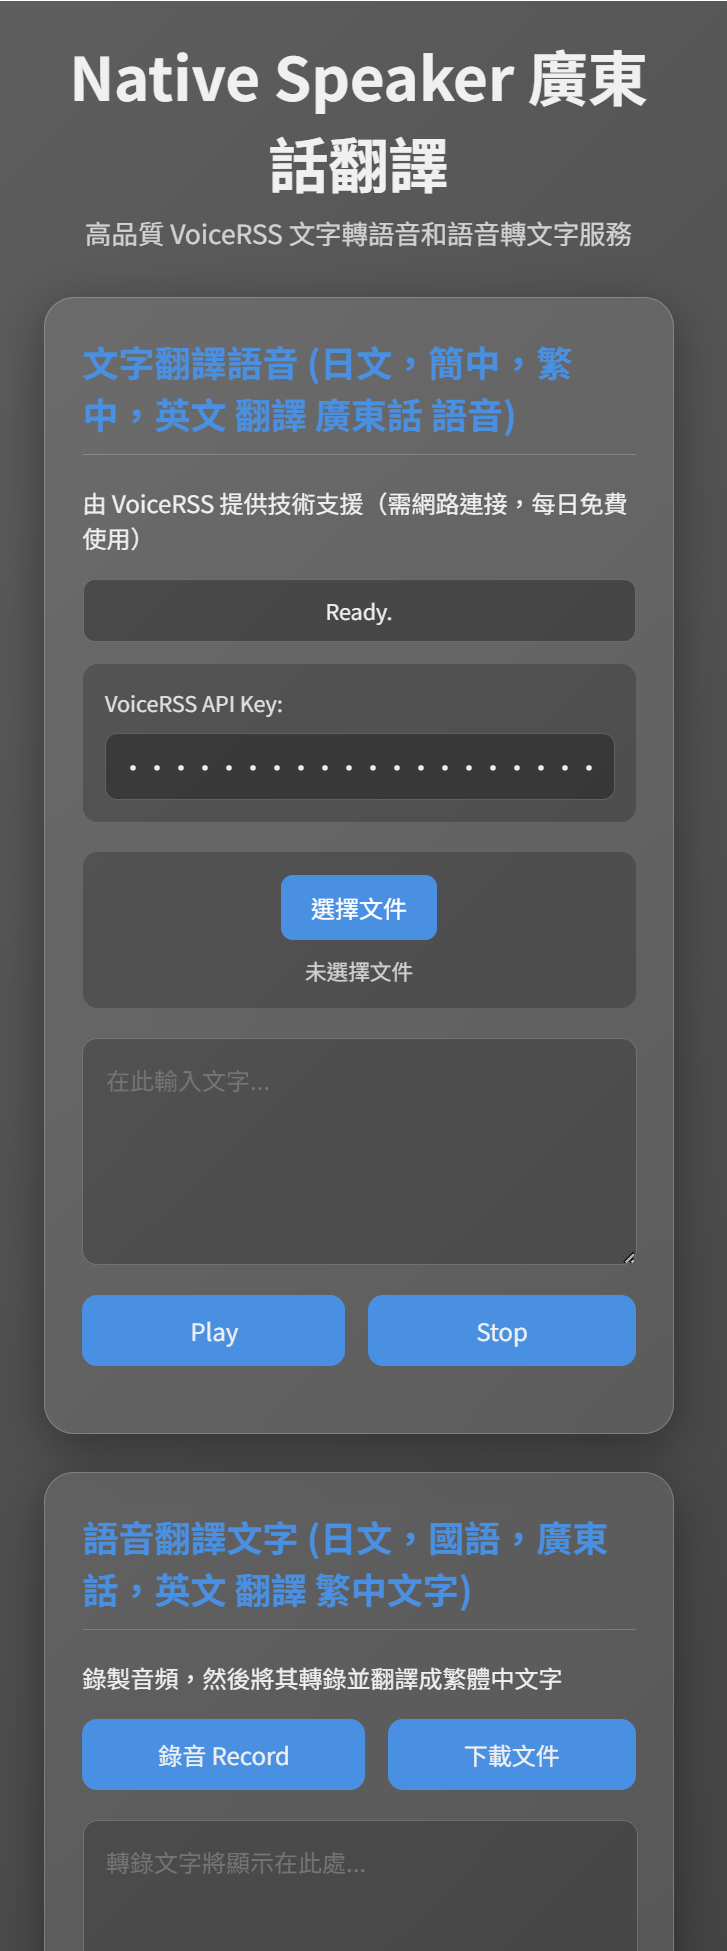
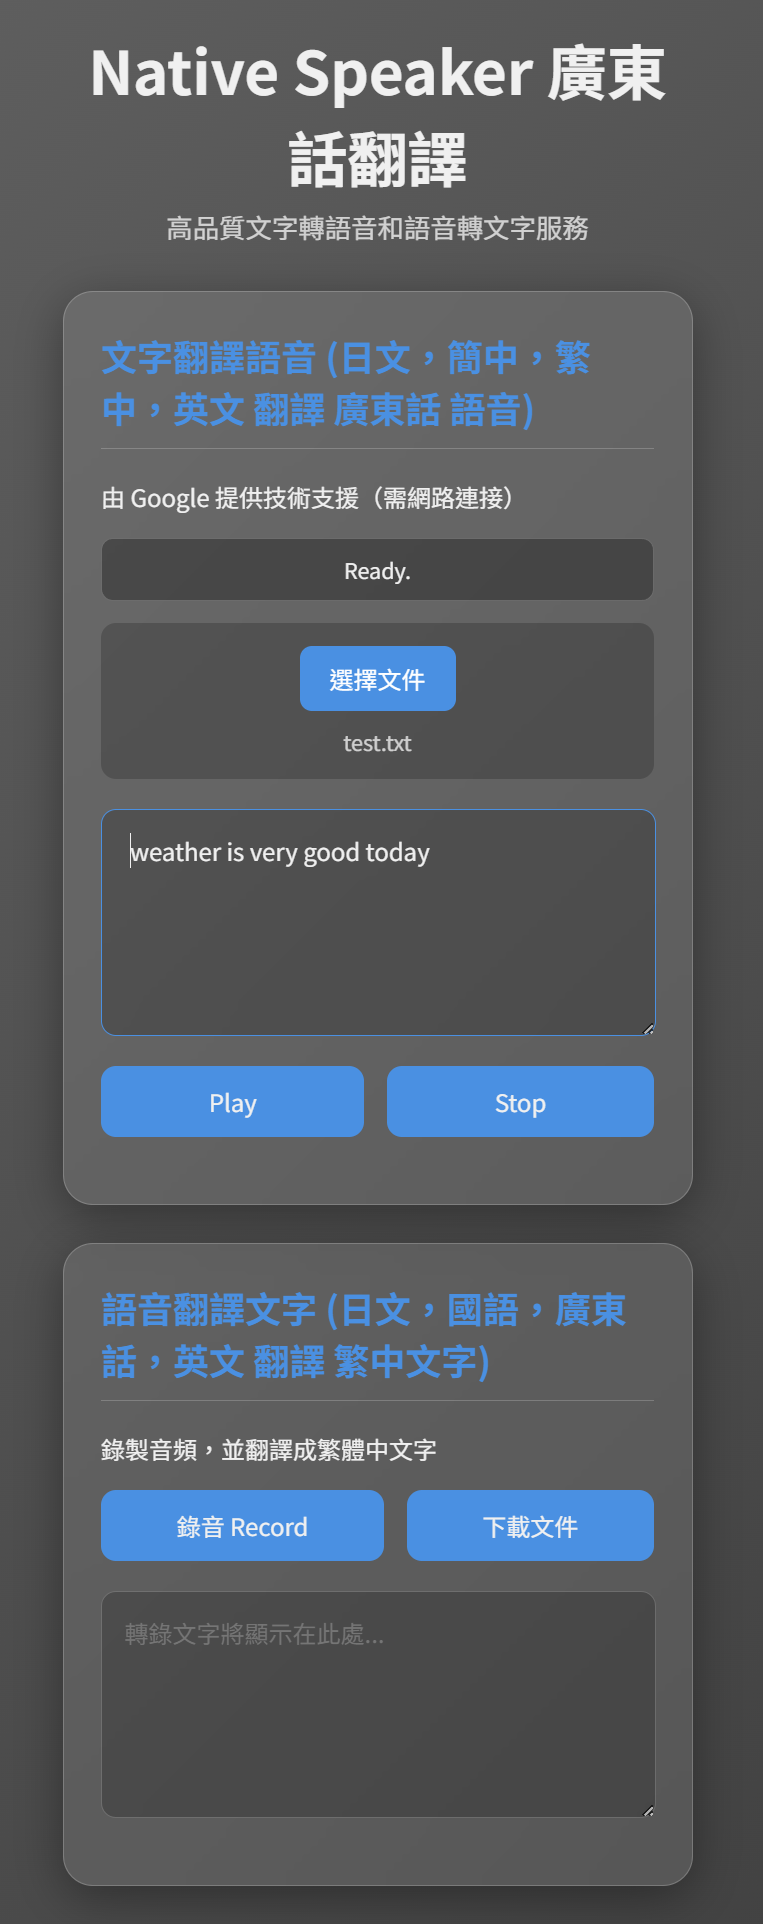
Add files via upload

diff --git a/script.js b/script.js
@@ -7,7 +7,7 @@ document.addEventListener('DOMContentLoaded', async () => {
     const stopBtn = document.getElementById('stop-btn');
     const ttsStatus = document.getElementById('tts-status');
 
-    const voicerssKeyInput = document.getElementById('voicerss-key');
+    // Removed: voicerssKeyInput
 
     const recordBtn = document.getElementById('record-btn');
     const downloadBtn = document.getElementById('download-btn');
@@ -15,23 +15,16 @@ document.addEventListener('DOMContentLoaded', async () => {
     const sttStatus = document.getElementById('stt-status');
 
     // --- Global State ---
-    let currentAudio = null; // To keep track of current playing audio
+    let currentUtterance = null; // To keep track of current playing audio
 
     // --- Feature Detection for STT (Browser's Web Speech API) ---
     const SpeechRecognition = window.SpeechRecognition || window.webkitSpeechRecognition;
     const recognition = SpeechRecognition ? new SpeechRecognition() : null;
     let isRecording = false;
 
-    // --- TTS (VoiceRSS) Implementation ---
+    // --- TTS (Browser's SpeechSynthesis) Implementation ---
 
     async function speak(text) {
-        const voicerssKey = voicerssKeyInput.value.trim();
-
-        if (!voicerssKey) {
-            ttsStatus.textContent = 'Please enter your VoiceRSS API Key.';
-            return;
-        }
-
         if (text.trim() === '') {
             ttsStatus.textContent = 'Please enter some text to speak.';
             return;
@@ -45,46 +38,58 @@ document.addEventListener('DOMContentLoaded', async () => {
             const translatedText = await translateText(text, 'zh-HK');
             ttsStatus.textContent = 'Generating audio...';
 
-            const url = `https://api.voicerss.org/?key=${voicerssKey}&src=${encodeURIComponent(translatedText)}&hl=zh-hk&v=Lina&r=0&c=MP3&f=44khz_16bit_stereo`;
-            
-            // VoiceRSS returns an audio file directly or an error message as plain text
-            const response = await fetch(url);
+            if ('speechSynthesis' in window) {
+                const utterance = new SpeechSynthesisUtterance(translatedText);
+                utterance.lang = 'zh-HK'; // Attempt to use Cantonese
 
-            if (!response.ok) {
-                const errorText = await response.text();
-                throw new Error(`VoiceRSS Error: ${response.status} - ${errorText}`);
-            }
+                // Optional: Try to find a suitable Cantonese voice
+                const voices = window.speechSynthesis.getVoices();
+                const cantoneseVoice = voices.find(voice => voice.lang === 'zh-HK' || voice.lang === 'yue-HK' || voice.name.includes('Cantonese'));
+                if (cantoneseVoice) {
+                    utterance.voice = cantoneseVoice;
+                } else {
+                    console.warn('No specific Cantonese voice found, using default for zh-HK or first available.');
+                }
 
-            // Play the audio
-            if (currentAudio) {
-                currentAudio.pause();
-                currentAudio = null;
-            }
-            currentAudio = new Audio(URL.createObjectURL(await response.blob()));
-            currentAudio.play();
+                if (window.speechSynthesis.speaking) {
+                    window.speechSynthesis.cancel();
+                }
+                currentUtterance = utterance;
+                window.speechSynthesis.speak(utterance);
 
-            ttsStatus.textContent = 'Speaking...';
-            currentAudio.onended = () => {
-                ttsStatus.textContent = 'Ready.';
+                ttsStatus.textContent = 'Speaking...';
+                utterance.onend = () => {
+                    ttsStatus.textContent = 'Ready.';
+                    playBtn.disabled = false;
+                    currentUtterance = null;
+                };
+                utterance.onerror = (event) => {
+                    ttsStatus.textContent = `Error playing audio: ${event.error}.`;
+                    console.error('SpeechSynthesis error:', event);
+                    playBtn.disabled = false;
+                    currentUtterance = null;
+                };
+            } else {
+                ttsStatus.textContent = 'SpeechSynthesis not supported in this browser.';
+                console.error('SpeechSynthesis not supported.');
                 playBtn.disabled = false;
-            };
-            currentAudio.onerror = (e) => {
-                ttsStatus.textContent = `Error playing audio.`;
-                console.error('Audio playback error:', e);
-                playBtn.disabled = false;
-            };
+            }
 
         } catch (error) {
             ttsStatus.textContent = `Error: ${error.message}`;
-            console.error('VoiceRSS TTS Error:', error);
+            console.error('TTS Error:', error);
             playBtn.disabled = false;
         }
     }
 
     stopBtn.addEventListener('click', () => {
-        if (currentAudio) {
-            currentAudio.pause();
-            currentAudio = null;
+        if ('speechSynthesis' in window && window.speechSynthesis.speaking) {
+            window.speechSynthesis.cancel(); // Stop all speech
+            if (currentUtterance) {
+                currentUtterance.onend = null; // Prevent onend from firing after cancel
+                currentUtterance.onerror = null;
+                currentUtterance = null;
+            }
             ttsStatus.textContent = 'Ready.';
             playBtn.disabled = false;
         }

diff --git a/index.html b/index.html
@@ -3,7 +3,7 @@
 <head>
     <meta charset="UTF-8">
     <meta name="viewport" content="width=device-width, initial-scale=1.0">
-    <title>Native Speaker (VoiceRSS TTS)</title>
+    <title>Native Speaker (Google TTS)</title>
     <link rel="stylesheet" href="style.css">
 </head>
 <body>
@@ -11,18 +11,13 @@
         <div class="main-content">
             <header>
                 <h1>Native Speaker 廣東話翻譯</h1>
-                <p>高品質 VoiceRSS 文字轉語音和語音轉文字服務</p>
+                <p>高品質文字轉語音和語音轉文字服務</p>
             </header>
 
             <div class="feature-box" id="tts-section">
                 <h2>文字翻譯語音 (日文，簡中，繁中，英文 翻譯 廣東話 語音)</h2>
-                <p>由 VoiceRSS 提供技術支援（需網路連接，每日免費使用）</p>
+                <p>由 Google 提供技術支援（需網路連接）</p>
                 <div id="tts-status" class="status-box">Ready.</div>
-
-                <div class="api-config">
-                    <label for="voicerss-key">VoiceRSS API Key:</label>
-                    <input type="password" id="voicerss-key" value="" placeholder="Paste your VoiceRSS API Key here">
-                </div>
 
                 <div class="file-upload-area">
                     <input type="file" id="file-input" accept=".txt,.srt,text/plain">
@@ -39,7 +34,7 @@
 
             <div class="feature-box" id="stt-section">
                 <h2>語音翻譯文字 (日文，國語，廣東話，英文 翻譯 繁中文字)</h2>
-                <p>錄製音頻，然後將其轉錄並翻譯成繁體中文字</p>
+                <p>錄製音頻，並翻譯成繁體中文字</p>
                 <div class="controls">
                     <button id="record-btn">錄音 Record</button>
                     <button id="download-btn">下載文件</button>

diff --git a/README.md b/README.md
@@ -1,14 +1,13 @@
-# Native Speaker (VoiceRSS TTS)
+# Native Speaker (Browser TTS)
 
-A simple, lightweight web application for text-to-speech and speech-to-text, powered by VoiceRSS for high-quality Cantonese voices. This version runs locally with a simple web server and uses an online API for speech generation.
-![UI](https://github.com/inchinet/nativespeaker/blob/master/nativespeaker.png)
-
+A simple, lightweight web application for text-to-speech and speech-to-text, leveraging browser-native capabilities for speech generation.
+![UI](https://github.com/inchinet/nativespeaker/blob/main/nativespeaker.png)
 
 ## Features
 
 *   **Text-to-Speech (Translate to Cantonese):**
-    *   Translates input text (e.g., English) into Chinese, then generates high-quality Cantonese speech using the **VoiceRSS API**.
-    *   Requires an internet connection and a VoiceRSS API key (free daily limit available).
+    *   Translates input text (e.g., English) into Chinese, then generates high-quality Cantonese speech using your browser's native Text-to-Speech (`speechSynthesis`) capabilities.
+    *   Availability and quality of Cantonese voices depend on your browser and operating system.
     *   Supports direct text pasting or uploading simple text files (`.txt`, `.srt`).
     *   Includes Play and Stop controls for audio playback.
 
@@ -20,7 +19,7 @@ A simple, lightweight web application for text-to-speech and speech-to-text, pow
 ## Technology
 
 *   **Frontend:** HTML5, CSS3, JavaScript
-*   **TTS API:** VoiceRSS API
+*   **TTS API:** Browser's Web Speech API (`speechSynthesis`)
 *   **STT API:** Browser's Web Speech API (`SpeechRecognition`)
 *   **Translation API:** Google Translate's public endpoint
 *   **Local Server:** Python's built-in `http.server` (for local file access)
@@ -30,7 +29,6 @@ A simple, lightweight web application for text-to-speech and speech-to-text, pow
 ### Prerequisites
 
 *   **Python 3:** Needed to run the simple local web server.
-*   **VoiceRSS API Key:** Sign up for a free account at [http://www.voicerss.org/](http://www.voicerss.org/) to get your API key. The free plan has daily limits but is sufficient for personal use and does not require a credit card.
 
 ### Instructions
 
@@ -43,11 +41,10 @@ A simple, lightweight web application for text-to-speech and speech-to-text, pow
 
 ## How to Use
 
-1.  **Enter Your VoiceRSS API Key:** Paste your VoiceRSS API key into the designated input field in the application.
-2.  **For Text-to-Speech:**
+1.  **For Text-to-Speech:**
     *   Enter or upload Cantonese text.
     *   Click the **"Play"** button to hear the speech.
-3.  **For Speech-to-Text:**
+2.  **For Speech-to-Text:**
     *   Click the **"Record"** button and grant microphone permissions.
     *   Speak, then click **"Stop"**. The transcribed and translated text will appear.
-4.  **Download Text:** Click the **"Download Text"** button to save the transcribed text.
+3.  **Download Text:** Click the **"Download Text"** button to save the transcribed text.
